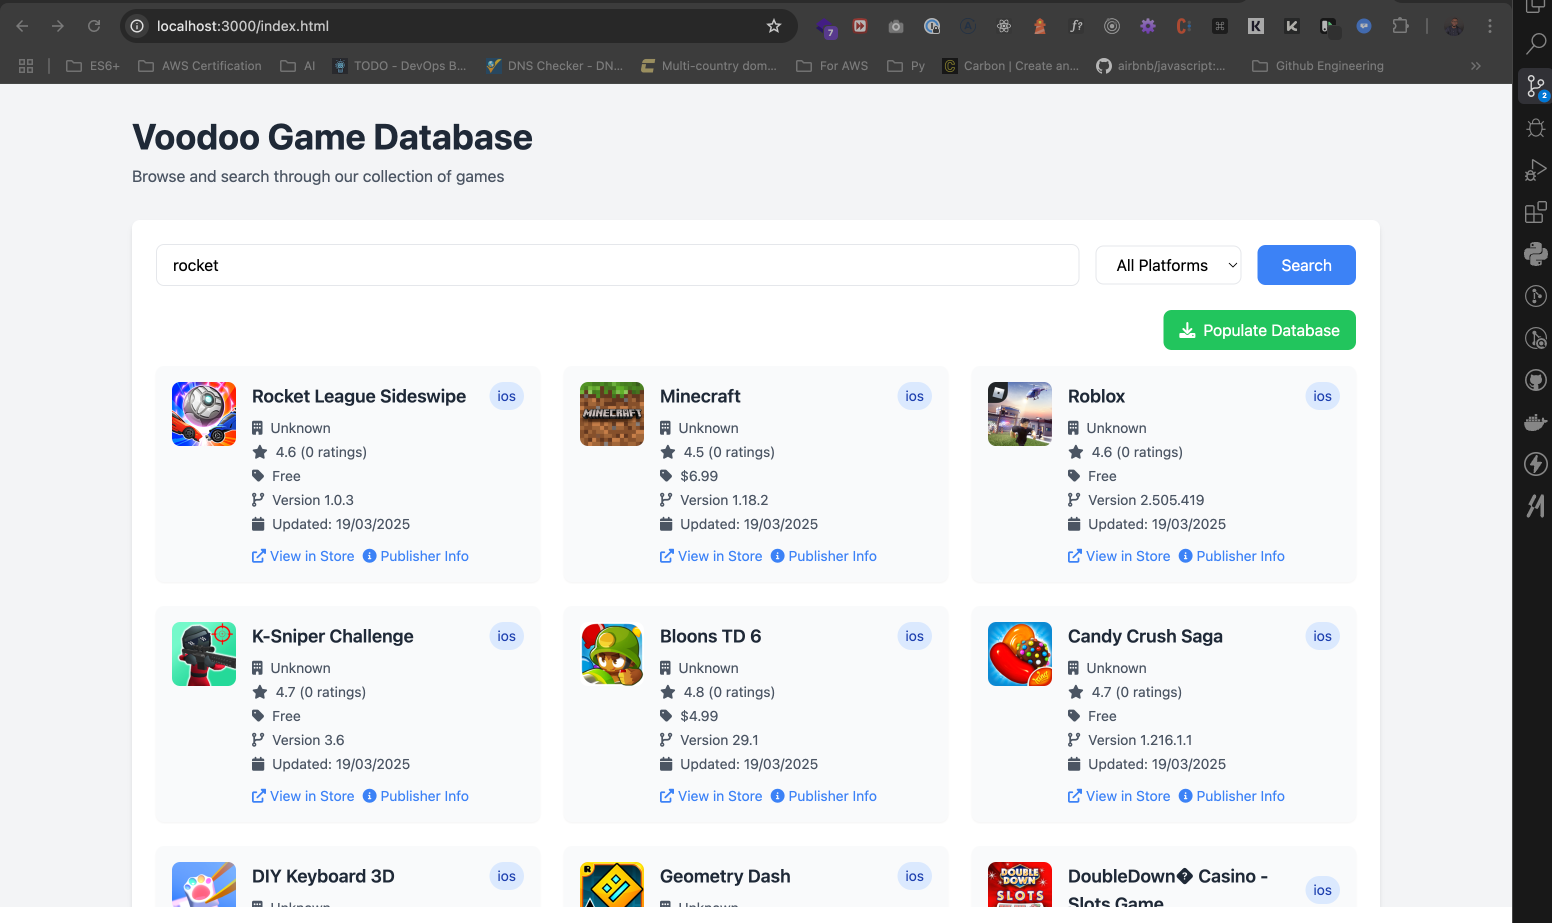
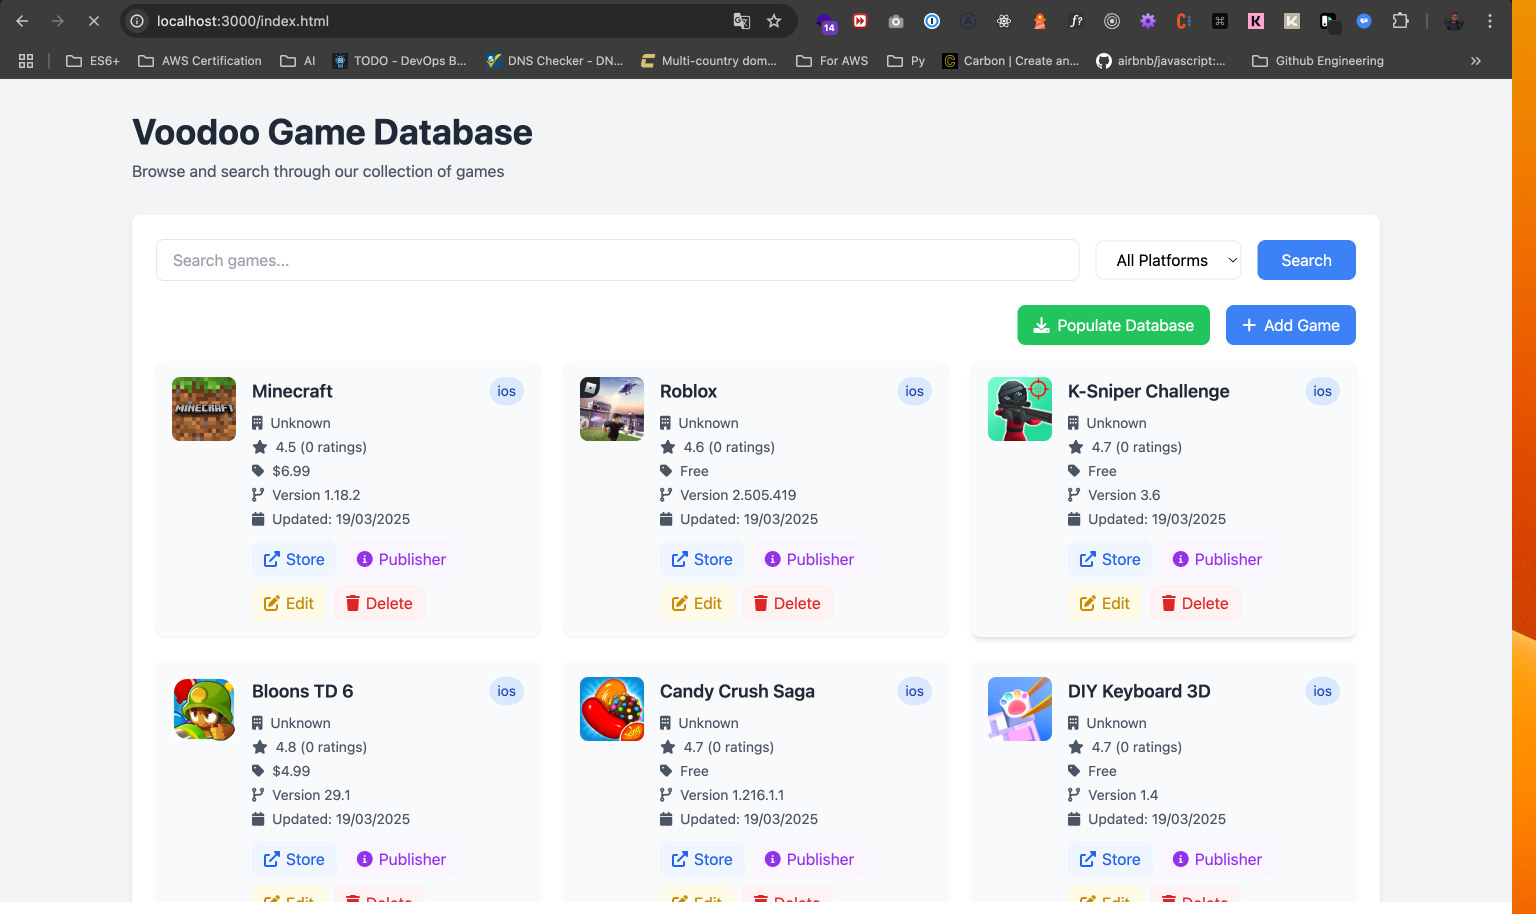
feat: Enhance UI with improved button styles and tooltips for game actions; update README with new screenshot

diff --git a/public/index.html b/public/index.html
@@ -126,36 +126,60 @@
                     Updated: {{ new Date(game.updatedDate).toLocaleDateString() }}
                   </p>
                 </div>
-                <div class="mt-3 flex space-x-2">
+                <div class="mt-3 flex flex-wrap gap-2">
                   <a
                     :href="game.url"
                     target="_blank"
-                    class="text-blue-500 hover:text-blue-600 text-sm flex items-center"
+                    class="inline-flex items-center px-3 py-1.5 bg-blue-50 text-blue-600 rounded-lg hover:bg-blue-100 focus:outline-none focus:ring-2 focus:ring-blue-500 transition-colors group relative"
+                    title="View in Store"
                   >
-                    <i class="fas fa-external-link-alt mr-1"></i>
-                    View in Store
+                    <i class="fas fa-external-link-alt mr-1.5"></i>
+                    <span>Store</span>
+                    <div
+                      class="absolute bottom-full left-1/2 transform -translate-x-1/2 mb-2 px-2 py-1 bg-gray-800 text-white text-xs rounded opacity-0 group-hover:opacity-100 transition-opacity whitespace-nowrap"
+                    >
+                      View in Store
+                    </div>
                   </a>
                   <a
                     :href="game.publisherProfileUrl"
                     target="_blank"
-                    class="text-blue-500 hover:text-blue-600 text-sm flex items-center"
+                    class="inline-flex items-center px-3 py-1.5 bg-purple-50 text-purple-600 rounded-lg hover:bg-purple-100 focus:outline-none focus:ring-2 focus:ring-purple-500 transition-colors group relative"
+                    title="Publisher Information"
                   >
-                    <i class="fas fa-info-circle mr-1"></i>
-                    Publisher Info
+                    <i class="fas fa-info-circle mr-1.5"></i>
+                    <span>Publisher</span>
+                    <div
+                      class="absolute bottom-full left-1/2 transform -translate-x-1/2 mb-2 px-2 py-1 bg-gray-800 text-white text-xs rounded opacity-0 group-hover:opacity-100 transition-opacity whitespace-nowrap"
+                    >
+                      Publisher Information
+                    </div>
                   </a>
                   <button
                     @click="openEditModal(game)"
-                    class="text-blue-500 hover:text-blue-600 text-sm flex items-center"
+                    class="inline-flex items-center px-3 py-1.5 bg-yellow-50 text-yellow-600 rounded-lg hover:bg-yellow-100 focus:outline-none focus:ring-2 focus:ring-yellow-500 transition-colors group relative"
+                    title="Edit Game"
                   >
-                    <i class="fas fa-edit mr-1"></i>
-                    Edit
+                    <i class="fas fa-edit mr-1.5"></i>
+                    <span>Edit</span>
+                    <div
+                      class="absolute bottom-full left-1/2 transform -translate-x-1/2 mb-2 px-2 py-1 bg-gray-800 text-white text-xs rounded opacity-0 group-hover:opacity-100 transition-opacity whitespace-nowrap"
+                    >
+                      Edit Game
+                    </div>
                   </button>
                   <button
                     @click="deleteGame(game.id)"
-                    class="text-red-500 hover:text-red-600 text-sm flex items-center"
+                    class="inline-flex items-center px-3 py-1.5 bg-red-50 text-red-600 rounded-lg hover:bg-red-100 focus:outline-none focus:ring-2 focus:ring-red-500 transition-colors group relative"
+                    title="Delete Game"
                   >
-                    <i class="fas fa-trash mr-1"></i>
-                    Delete
+                    <i class="fas fa-trash mr-1.5"></i>
+                    <span>Delete</span>
+                    <div
+                      class="absolute bottom-full left-1/2 transform -translate-x-1/2 mb-2 px-2 py-1 bg-gray-800 text-white text-xs rounded opacity-0 group-hover:opacity-100 transition-opacity whitespace-nowrap"
+                    >
+                      Delete Game
+                    </div>
                   </button>
                 </div>
               </div>

diff --git a/README.md b/README.md
@@ -14,6 +14,10 @@ A RESTful API service for managing game data, built with Express, TypeScript, an
 
 ![Home Page Screenshot ](capture/index.png)
 
+### Add `http://localhost:3000/index.html`
+
+![Search Feature Screenshot](capture/add.png)
+
 ### Search `http://localhost:3000/search.html`
 
 ![Search Feature Screenshot](capture/search.png)
